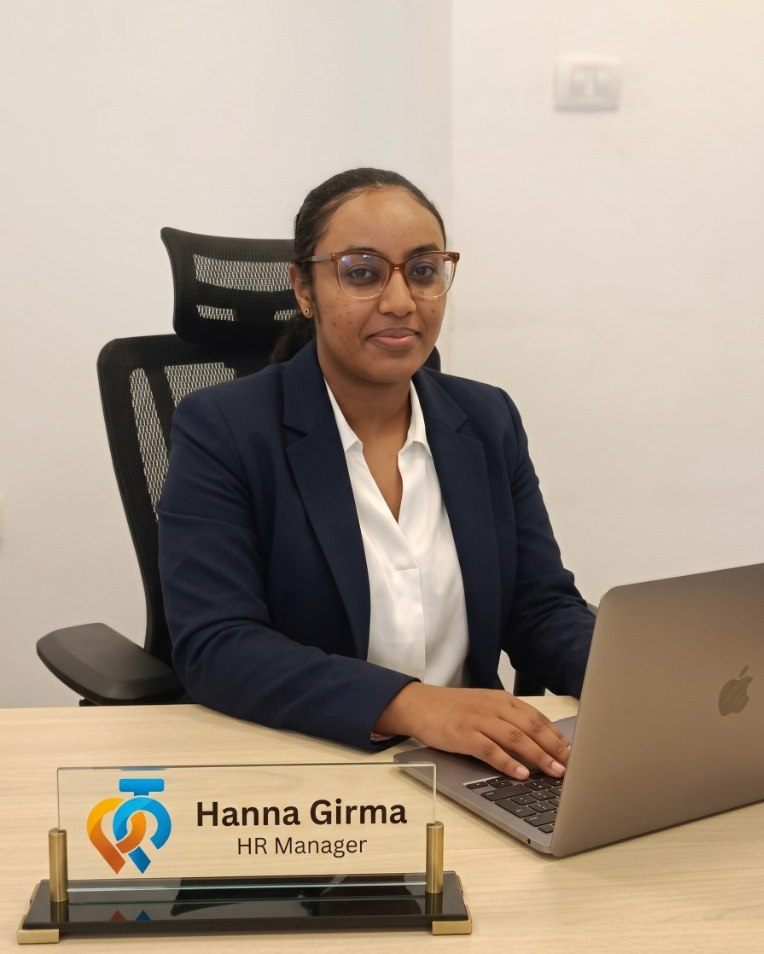
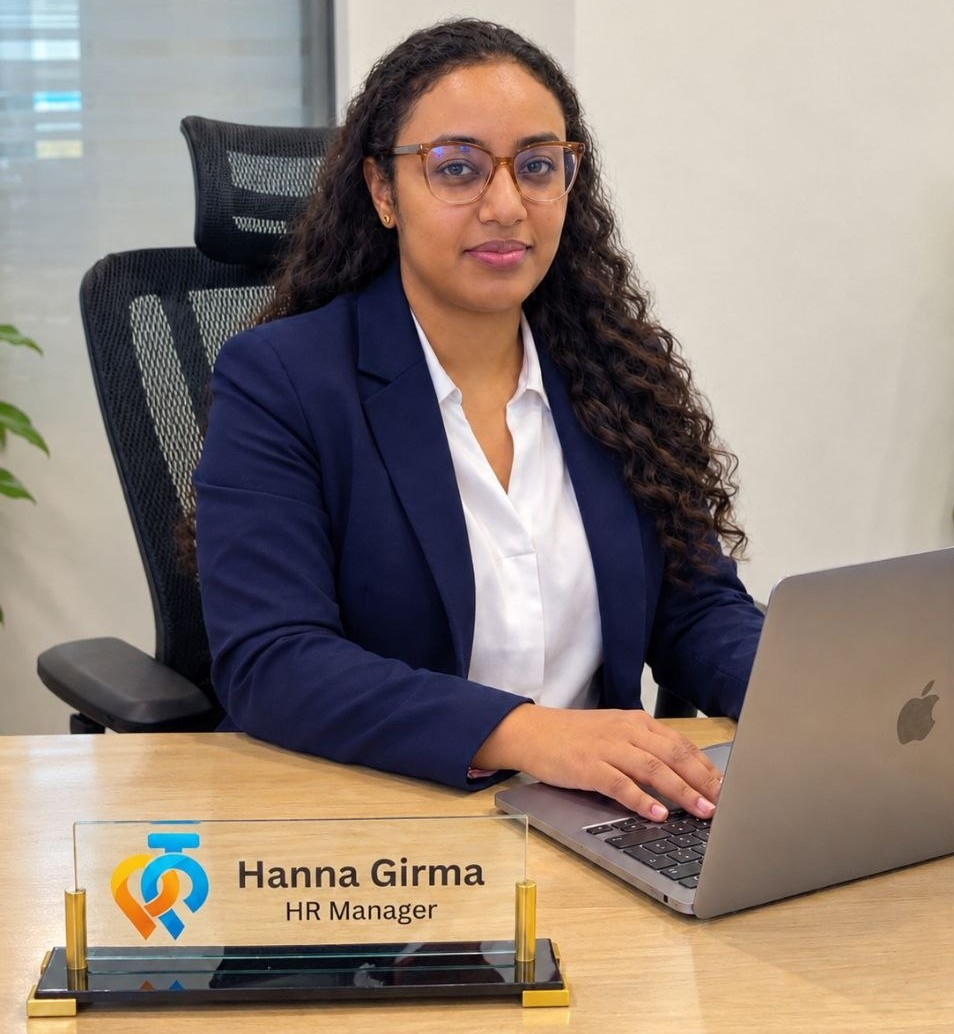
add and mod team info

diff --git a/src/sections/Team.tsx b/src/sections/Team.tsx
@@ -29,6 +29,7 @@ import {
   Calendar,
   Award,
   Maximize2,
+  TrendingUp,
 } from 'lucide-react';
 import { CSR_PHOTOS, CONTACT, WORKFORCE_EVENT } from '../data';
 import { EASE, Reveal, Counter } from '../ui';
@@ -53,6 +54,7 @@ export interface TeamLeader {
   amQuote: string;
   pillars: { en: string; am: string }[];
   deskPhone: string;
+  objectPosition?: string;
 }
 
 const EXTENDED_TEAM: TeamLeader[] = [
@@ -119,6 +121,38 @@ const EXTENDED_TEAM: TeamLeader[] = [
       },
     ],
     deskPhone: CONTACT.phoneClean,
+  },
+  {
+    id: 'fikadu',
+    name: 'Fikadu Kassahun',
+    amName: 'ፍቃዱ ካሳሁን',
+    role: 'Chief Sales and Marketing Officer',
+    amRole: 'ዋና የሽያጭና ማርኬቲንግ ኃላፊ (CSMO)',
+    dept: 'Sales, Marketing & Commercial Growth',
+    amDept: 'የሽያጭ፣ ማርኬቲንግና ንግድ ልማት',
+    category: 'executive',
+    photo: '/images/team-fikadu.jpg',
+    icon: TrendingUp,
+    color: '#0284c7',
+    quote:
+      'Sustainable construction in Ethiopia thrives on genuine partnerships. We connect developers and contractors with certified steel at competitive factory pricing and dependable site delivery.',
+    amQuote:
+      'በኢትዮጵያ አስተማማኝ ግንባታ የሚረጋገጠው በታማኝ አጋርነት ነው። ለኮንትራክተሮችና ገንቢዎች ጥራት ያለው ሬባር በፋብሪካ ቀጥታ ተወዳዳሪ ዋጋ እና በታማኝ አገልግሎት እናቀርባለን።',
+    pillars: [
+      {
+        en: 'Strategic commercial partnerships & large-scale contractor supply agreements',
+        am: 'ለታላላቅ የኮንስትራክሽንና ሪል እስቴት ፕሮጀክቶች ስትራቴጂካዊ የሽያጭ ስምምነቶችን ማመቻቸት',
+      },
+      {
+        en: 'Transparent factory-direct rebar pricing, flexible billing, and instant certified invoicing',
+        am: 'ግልጽ የሆነ የፋብሪካ ቀጥታ ተወዳዳሪ ዋጋ፣ የተመቻቸ የክፍያ ሥርዓትና ሕጋዊ ደረሰኝ ማረጋገጥ',
+      },
+      {
+        en: 'Client-focused distribution coordination linking site engineers directly with central stock',
+        am: 'መሃንዲሶችንና የግንባታ ባለቤቶችን ከዋናው መጋዘን ክምችት ጋር በቀጥታ የሚያገናኝ ቀልጣፋ አገልግሎት',
+      },
+    ],
+    deskPhone: CONTACT.phones[0]?.tel || CONTACT.phoneClean,
   },
   {
     id: 'getahun',
@@ -622,7 +656,7 @@ function InteractiveTeamCard({ leader, index, onSelect }: TiltCardProps) {
             decoding="async"
             width={260}
             height={240}
-            className="h-full w-full object-cover object-top transition-transform duration-500 ease-out group-hover:scale-106"
+            className={`h-full w-full object-cover transition-transform duration-500 ease-out group-hover:scale-106 ${leader.objectPosition || "object-top"}`}
             onError={(e) => {
               (e.currentTarget as HTMLImageElement).src =
                 'https://images.unsplash.com/photo-1507003211169-0a1dd7228f2d?auto=format&fit=crop&w=300&q=80';
@@ -790,7 +824,7 @@ function ExecutiveDossierModal({ leader, onClose, onNext, onPrev }: DossierModal
                 <img
                   src={leader.photo}
                   alt={leader.name}
-                  className="h-full w-full object-cover object-top"
+                  className={`h-full w-full object-cover ${leader.objectPosition || "object-top"}`}
                 />
                 <div className="absolute bottom-2 right-2 rounded-lg bg-panel/90 p-2 shadow-md backdrop-blur-md">
                   <LeaderIcon className="h-5 w-5 text-ember" />
@@ -1059,15 +1093,52 @@ export default function Team() {
         </div>
 
         {/* Clean, Digestible 3D Tilt Cards for Executive & Operational Leaders */}
-        <div className="mt-12 grid gap-5 sm:grid-cols-2 lg:grid-cols-3">
-          {EXTENDED_TEAM.map((m, i) => (
-            <InteractiveTeamCard
-              key={m.id}
-              leader={m}
-              index={i}
-              onSelect={(lead) => setSelectedLeader(lead)}
-            />
-          ))}
+        <div className="mt-12 space-y-12">
+          {/* Executive Leadership Tier (3 Leaders) */}
+          <div>
+            <div className="flex items-center gap-3 mb-6">
+              <span className="font-display text-xs font-bold uppercase tracking-[0.22em] text-ember">
+                {t('Executive Officers & Direction', 'ከፍተኛ የሥራ አመራር ቦርድ')}
+              </span>
+              <span className="h-px flex-1 bg-line" />
+              <span className="font-mono text-[0.68rem] text-mute uppercase tracking-wider hidden sm:inline">
+                {t('C-Suite Board', 'ዋና ሥራ አስፈፃሚዎች')}
+              </span>
+            </div>
+            <div className="grid gap-5 grid-cols-1 md:grid-cols-3">
+              {EXTENDED_TEAM.filter((m) => m.category === 'executive').map((m, i) => (
+                <InteractiveTeamCard
+                  key={m.id}
+                  leader={m}
+                  index={i}
+                  onSelect={(lead) => setSelectedLeader(lead)}
+                />
+              ))}
+            </div>
+          </div>
+
+          {/* Operational & Departmental Leadership Tier (4 Leaders) */}
+          <div>
+            <div className="flex items-center gap-3 mb-6">
+              <span className="font-display text-xs font-bold uppercase tracking-[0.22em] text-mute">
+                {t('Operational & Functional Directorate', 'የክፍል ዳይሬክተሮችና ሥራ አስኪያጆች')}
+              </span>
+              <span className="h-px flex-1 bg-line" />
+              <span className="font-mono text-[0.68rem] text-mute uppercase tracking-wider hidden sm:inline">
+                {t('Operations · Finance · HR · Technology', 'ኦፐሬሽን · ፋይናንስ · የሰው ኃይል · ቴክኖሎጂ')}
+              </span>
+            </div>
+            <div className="grid gap-5 sm:grid-cols-2 lg:grid-cols-4">
+              {EXTENDED_TEAM.filter((m) => m.category !== 'executive').map((m, i) => (
+                <InteractiveTeamCard
+                  key={m.id}
+                  leader={m}
+                  index={i + 3}
+                  onSelect={(lead) => setSelectedLeader(lead)}
+                />
+              ))}
+            </div>
+          </div>
         </div>
 
         {/* Workforce Culture: Workers' Day Grand Overnight Program */}

diff --git a/src/components/CustomerSupportBot.tsx b/src/components/CustomerSupportBot.tsx
@@ -75,6 +75,7 @@ VERIFIED COMPANY INFORMATION:
 2. REAL EXECUTIVE LEADERSHIP & KEY PERSONNEL:
 - Chief Executive Officer (CEO): Tilahun Tamirat (ጥላሁን ታሚራት)
 - General Manager & Founder: Ato Zelalem Alene (አቶ ዘላለም አለነ)
+- Chief Sales and Marketing Officer (CSMO): Fikadu Kassahun (ፍቃዱ ካሳሁን)
 - Operation Director / Supply Chain Director: Getahun Assefa (ጌታሁን አሰፋ)
 - HR Manager: Hanna Girma (ሃና ግርማ)
 - Finance Director / Manager: Hiwot Tilahun (ህይወት ጥላሁን)
@@ -568,6 +569,11 @@ export default function CustomerSupportBot() {
       q.includes('ceo') ||
       q.includes('zelalem') ||
       q.includes('tilahun') ||
+      q.includes('fikadu') ||
+      q.includes('ፍቃዱ') ||
+      q.includes('sales director') ||
+      q.includes('marketing director') ||
+      q.includes('csmo') ||
       q.includes('getahun') ||
       q.includes('hanna') ||
       q.includes('hiwot') ||
@@ -582,8 +588,8 @@ export default function CustomerSupportBot() {
     ) {
       return {
         text: preferAmharic
-          ? 'የኛ ትሬዲንግ ኃ.የተ.የግ.ማ በዋና ሥራ አስፈፃሚ (CEO) ጥላሁን ታሚራት እና በዋና ሥራ አስኪያጅና መሥራች አቶ ዘላለም አለነ ይመራል። የአመራር ቡድኑ አባላት፡ ጌታሁን አሰፋ (ኦፐሬሽን ዳይሬክተር)፣ ሃና ግርማ (የሰው ኃይል ሥራ አስኪያጅ)፣ ህይወት ጥላሁን (የፋይናንስ ዳይሬክተር) እና ሙሉጌታ አወቀ (የመረጃና ኢአርፒ ስርዓት ዳይሬክተር) ናቸው።'
-          : 'Yegna Trading PLC is led by Chief Executive Officer (CEO) Tilahun Tamirat and General Manager & Founder Ato Zelalem Alene, supported by our directors: Getahun Assefa (Operation Director), Hanna Girma (HR Manager), Hiwot Tilahun (Finance Director), and Mulugeta Awoke (IT & ERP Director).',
+          ? 'የኛ ትሬዲንግ ኃ.የተ.የግ.ማ በዋና ሥራ አስፈፃሚ (CEO) ጥላሁን ታሚራት፣ በዋና ሥራ አስኪያጅና መሥራች አቶ ዘላለም አለነ እና በዋና የሽያጭና ማርኬቲንግ ኃላፊ (CSMO) ፍቃዱ ካሳሁን ይመራል። የአመራር ቡድኑ አባላት፡ ጌታሁን አሰፋ (ኦፐሬሽን ዳይሬክተር)፣ ሃና ግርማ (የሰው ኃይል ሥራ አስኪያጅ)፣ ህይወት ጥላሁን (የፋይናንስ ዳይሬክተር) እና ሙሉጌታ አወቀ (የመረጃና ኢአርፒ ስርዓት ዳይሬክተር) ናቸው።'
+          : 'Yegna Trading PLC is led by Chief Executive Officer (CEO) Tilahun Tamirat, General Manager & Founder Ato Zelalem Alene, and Chief Sales and Marketing Officer (CSMO) Fikadu Kassahun, supported by our directors: Getahun Assefa (Operation Director), Hanna Girma (HR Manager), Hiwot Tilahun (Finance Director), and Mulugeta Awoke (IT & ERP Director).',
         actions: [
           {
             label: preferAmharic ? '👥 ሙሉ የአመራር ቡድን' : '👥 View Full Team',

diff --git a/src/data.ts b/src/data.ts
@@ -346,6 +346,12 @@ export const TEAM = [
     photo: '/images/team-zelalem.jpg?v=2',
   },
   {
+    name: 'Fikadu Kassahun',
+    role: 'Chief Sales and Marketing Officer',
+    amRole: 'ዋና የሽያጭና ማርኬቲንግ ኃላፊ',
+    photo: '/images/team-fikadu.jpg',
+  },
+  {
     name: 'Getahun Assefa',
     role: 'Supply Chain Director',
     amRole: 'የአቅርቦት ሰንሰለት ዳይሬክተር',
